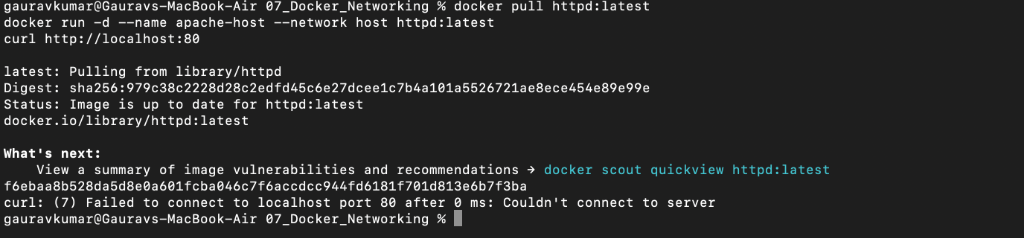
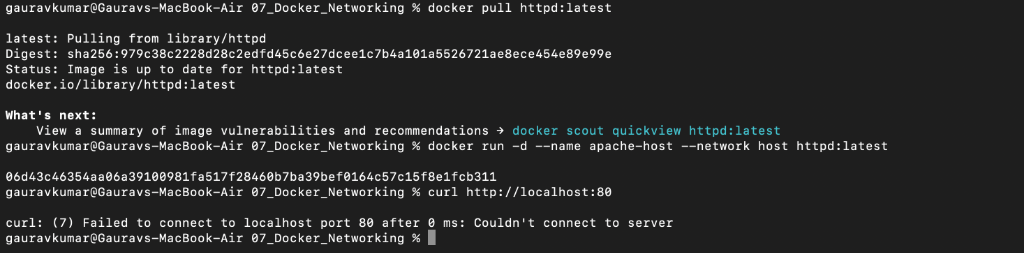
complete docker networking assignment with authentic terminal and browser screenshots

Changed region(s): [[0.0, 0.0, 0.875, 0.9706]]

diff --git a/07_Docker_Networking/README.md b/07_Docker_Networking/README.md
@@ -78,6 +78,13 @@ curl http://localhost:8082
 **Screenshot of Task 3 Execution:**
 ![Task 3 Execution](images/task3.png)
 
+**Browser Verification for Bind Mount:**
+Before modifying the index.html file:
+![Browser Verification - Original](images/browser1.png)
+
+After modifying the index.html file:
+![Browser Verification - Modified](images/browser2.png)
+
 ---
 
 ## Task 4: Overlay Network
